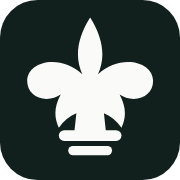
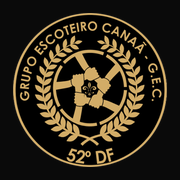
Adota o brasao do grupo e a paleta preto e dourado
- Brasao vira o icone do app (inclusive maskable), o favicon e a marca
  no cabecalho e na tela de entrada
- Paleta do app passa a preto #0A0A0A e dourado #D2AC67, tirados do
  proprio brasao; acoes principais ficam douradas
- Cores dos ramos permanecem como estao, porque sao informacao: elas
  dizem de qual ramo e cada pessoa

Claude-Session: https://claude.ai/code/session_01LQGehYTGPXxtFG2JUB2PWf

diff --git a/src/pages/Chamada.tsx b/src/pages/Chamada.tsx
@@ -200,7 +200,7 @@ export function Chamada() {
         <>
           <div className="flex items-center justify-between px-4 pt-5 pb-2">
             <p className="text-[13px] text-muted">Toque na linha para alternar presente, falta e justificada.</p>
-            <button type="button" onClick={todosPresentes} className="shrink-0 pl-3 text-[13px] font-semibold text-escoteiro underline">
+            <button type="button" onClick={todosPresentes} className="shrink-0 pl-3 text-[13px] font-semibold text-ouro-escuro underline">
               Todos presentes
             </button>
           </div>
@@ -217,7 +217,7 @@ export function Chamada() {
 
       {lista.length > 0 ? (
         <div className="fixed inset-x-0 bottom-[calc(64px+env(safe-area-inset-bottom))] z-10 border-t border-line bg-card/95 px-4 py-3 backdrop-blur">
-          {aviso ? <p className="pb-2 text-[13px] font-medium text-escoteiro" role="status">{aviso}</p> : null}
+          {aviso ? <p className="pb-2 text-[13px] font-medium text-ouro-escuro" role="status">{aviso}</p> : null}
           <div className="flex items-center gap-3">
             <p className="font-display text-[15px] font-[600]">
               {contagem.presentes} <span className="font-sans text-[13px] font-normal text-muted">presentes · {contagem.marcados}/{lista.length} marcados</span>
@@ -226,7 +226,7 @@ export function Chamada() {
               type="button"
               onClick={() => void salvar()}
               disabled={salvando}
-              className="ml-auto flex items-center gap-2 rounded-full bg-ink px-5 py-2.5 text-[15px] font-semibold text-paper disabled:opacity-60"
+              className="ml-auto flex items-center gap-2 rounded-full bg-ouro px-5 py-2.5 text-[15px] font-semibold text-ink disabled:opacity-60"
             >
               <Icone nome="salvar" className="h-4.5 w-4.5" />
               {salvando ? 'Salvando' : 'Salvar chamada'}

diff --git a/src/components/Marca.tsx b/src/components/Marca.tsx
@@ -1,21 +1,26 @@
-/** Flor-de-lis do grupo, usada como marca e como ícone do app. */
-export function FlorDeLis({ className = '', titulo }: { className?: string; titulo?: string }) {
+const LOGO = `${import.meta.env.BASE_URL}logo.png`;
+
+/** Brasão do Grupo Escoteiro Canaã 52/DF. */
+export function Brasao({ tamanho = 28, titulo }: { tamanho?: number; titulo?: string }) {
   return (
-    <svg viewBox="0 0 48 48" className={className} role={titulo ? 'img' : 'presentation'} aria-label={titulo} fill="currentColor">
-      <path d="M24 2c-2.6 4.1-3.9 8.1-3.9 11.8 0 2.2.5 4.3 1.4 6.3-3-2.6-6.2-3.9-9.6-3.9-4.6 0-8 2.5-8 6.1 0 3.3 2.6 5.7 6.2 5.7 1.7 0 3.2-.5 4.5-1.4-1.1 2-1.7 4-1.7 6 0 1.6.4 3.1 1.1 4.6 1.5-2.2 3.4-3.7 5.6-4.6l-.9 8.3h10.6l-.9-8.3c2.2.9 4.1 2.4 5.6 4.6.7-1.5 1.1-3 1.1-4.6 0-2-.6-4-1.7-6 1.3.9 2.8 1.4 4.5 1.4 3.6 0 6.2-2.4 6.2-5.7 0-3.6-3.4-6.1-8-6.1-3.4 0-6.6 1.3-9.6 3.9.9-2 1.4-4.1 1.4-6.3C27.9 10.1 26.6 6.1 24 2z" />
-      <rect x="14" y="38" width="20" height="3.4" rx="1.7" />
-      <rect x="17" y="43" width="14" height="3" rx="1.5" />
-    </svg>
+    <img
+      src={LOGO}
+      alt={titulo ?? ''}
+      width={tamanho}
+      height={tamanho}
+      style={{ width: tamanho, height: tamanho }}
+      className="shrink-0 object-contain"
+    />
   );
 }
 
 export function Marca() {
   return (
     <span className="flex items-center gap-2.5">
-      <FlorDeLis className="h-7 w-7 text-paper" titulo="Grupo Escoteiro Canaã 52" />
+      <Brasao tamanho={34} titulo="Grupo Escoteiro Canaã 52" />
       <span className="font-display text-[15px] leading-none font-[600] tracking-tight text-paper">
         Canaã 52
-        <span className="ml-1.5 font-sans text-[11px] font-medium text-paper/55">DF</span>
+        <span className="ml-1.5 font-sans text-[11px] font-medium text-ouro">DF</span>
       </span>
     </span>
   );

diff --git a/src/pages/Ficha.tsx b/src/pages/Ficha.tsx
@@ -191,13 +191,13 @@ export function Ficha() {
               type="button"
               onClick={() => void salvar()}
               disabled={salvando}
-              className="ml-auto rounded-full bg-ink px-5 py-2.5 text-[15px] font-semibold text-paper disabled:opacity-60"
+              className="ml-auto rounded-full bg-ouro px-5 py-2.5 text-[15px] font-semibold text-ink disabled:opacity-60"
             >
               {salvando ? 'Salvando' : 'Salvar ficha'}
             </button>
           </div>
         ) : (
-          <button type="button" onClick={() => setEditando(true)} className="w-full rounded-full bg-ink py-2.5 text-[15px] font-semibold text-paper">
+          <button type="button" onClick={() => setEditando(true)} className="w-full rounded-full bg-ouro py-2.5 text-[15px] font-semibold text-ink">
             Editar ficha
           </button>
         )}
@@ -221,7 +221,7 @@ function Par({ rotulo, valor, escuro, destaque, link }: { rotulo: string; valor?
   return (
     <div className="flex items-baseline gap-3">
       <dt className={`w-[46%] shrink-0 text-[12.5px] ${escuro ? 'text-paper/55' : 'text-muted'}`}>{rotulo}</dt>
-      <dd className={`flex-1 ${vazio ? (escuro ? 'text-paper/40' : 'text-muted') : ''} ${destaque ? 'font-semibold text-lobinho' : ''}`}>
+      <dd className={`flex-1 ${vazio ? (escuro ? 'text-paper/40' : 'text-muted') : ''} ${destaque ? 'font-semibold text-ouro' : ''}`}>
         {link && !vazio ? <a href={link} className="underline">{conteudo}</a> : conteudo}
       </dd>
     </div>

diff --git a/src/pages/Login.tsx b/src/pages/Login.tsx
@@ -1,6 +1,6 @@
 import { useEffect, useRef } from 'react';
 import { useAuth } from '../lib/auth';
-import { FlorDeLis } from '../components/Marca';
+import { Brasao } from '../components/Marca';
 
 export function Login() {
   const { montarBotao, erro, carregando } = useAuth();
@@ -13,7 +13,7 @@ export function Login() {
   return (
     <main className="grid min-h-dvh place-items-center bg-ink px-6 py-12 text-paper">
       <div className="w-full max-w-sm">
-        <FlorDeLis className="h-16 w-16 text-paper/90" titulo="" />
+        <Brasao tamanho={116} />
         <h1 className="mt-7 font-display text-[2.6rem] leading-[1.05] font-[800] tracking-[-0.02em]">
           Grupo Escoteiro
           <br />
@@ -26,7 +26,7 @@ export function Login() {
         <div className="mt-9 min-h-[44px]" ref={caixa} />
         {carregando ? <p className="mt-4 text-sm text-paper/60">Verificando seu acesso…</p> : null}
         {erro ? (
-          <p className="mt-5 border-l-4 border-lobinho bg-paper/10 px-3.5 py-3 text-sm leading-relaxed" role="alert">
+          <p className="mt-5 border-l-4 border-ouro bg-paper/10 px-3.5 py-3 text-sm leading-relaxed" role="alert">
             {erro}
           </p>
         ) : null}

diff --git a/src/pages/Conta.tsx b/src/pages/Conta.tsx
@@ -53,7 +53,7 @@ export function Conta() {
         <p className="mt-1.5 text-[14px] text-muted">
           {ativos} integrantes ativos de {integrantes.length} fichas.
         </p>
-        <button type="button" onClick={() => void recarregar()} className="mt-3 text-[14px] font-semibold text-escoteiro underline">
+        <button type="button" onClick={() => void recarregar()} className="mt-3 text-[14px] font-semibold text-ouro-escuro underline">
           Recarregar da planilha
         </button>
       </section>
@@ -69,7 +69,7 @@ export function Conta() {
             type="button"
             onClick={() => void rodar()}
             disabled={rodando}
-            className="mt-3 rounded-full bg-ink px-5 py-2.5 text-[14px] font-semibold text-paper disabled:opacity-60"
+            className="mt-3 rounded-full bg-ouro px-5 py-2.5 text-[14px] font-semibold text-ink disabled:opacity-60"
           >
             {rodando ? 'Conferindo' : 'Conferir agora'}
           </button>

diff --git a/src/pages/Integrantes.tsx b/src/pages/Integrantes.tsx
@@ -31,7 +31,7 @@ export function Integrantes() {
       <div className="sticky top-[52px] z-10 border-b border-line bg-card px-4 py-4">
         <div className="flex items-baseline justify-between gap-3">
           <h1 className="font-display text-xl font-[600] tracking-tight">Integrantes</h1>
-          <Link to="/integrantes/novo" className="rounded-full bg-ink px-4 py-2 text-[14px] font-semibold text-paper">
+          <Link to="/integrantes/novo" className="rounded-full bg-ouro px-4 py-2 text-[14px] font-semibold text-ink">
             Cadastrar
           </Link>
         </div>
@@ -47,7 +47,7 @@ export function Integrantes() {
         </label>
 
         <div className="-mx-4 mt-3 flex gap-2 overflow-x-auto px-4 pb-1">
-          <Chip ativo={!filtro} cor="var(--color-ink)" onClick={() => setFiltro('')}>
+          <Chip ativo={!filtro} cor="var(--color-ouro-escuro)" onClick={() => setFiltro('')}>
             Todos
           </Chip>
           {ramos.map((nome) => (

diff --git a/src/components/Casca.tsx b/src/components/Casca.tsx
@@ -11,7 +11,7 @@ const ABAS = [
 export function Casca() {
   return (
     <div className="min-h-dvh bg-paper pb-[calc(64px+env(safe-area-inset-bottom))]">
-      <header className="sticky top-0 z-20 bg-ink px-4 py-3 pt-[calc(0.75rem+env(safe-area-inset-top))]">
+      <header className="sticky top-0 z-20 border-b-2 border-ouro bg-ink px-4 py-3 pt-[calc(0.75rem+env(safe-area-inset-top))]">
         <Marca />
       </header>
 
@@ -28,8 +28,8 @@ export function Casca() {
             end={aba.para === '/'}
             className={({ isActive }) =>
               [
-                'flex flex-col items-center gap-1 py-2.5 text-[11px] font-medium',
-                isActive ? 'text-ink' : 'text-muted',
+                'flex flex-col items-center gap-1 border-t-2 py-2.5 text-[11px] font-medium',
+                isActive ? 'border-ouro text-ink' : 'border-transparent text-muted',
               ].join(' ')
             }
           >

diff --git a/index.html b/index.html
@@ -3,10 +3,11 @@
   <head>
     <meta charset="UTF-8" />
     <meta name="viewport" content="width=device-width, initial-scale=1, viewport-fit=cover" />
-    <meta name="theme-color" content="#11201C" />
+    <meta name="theme-color" content="#0A0A0A" />
     <meta name="description" content="Chamada e fichas dos integrantes do Grupo Escoteiro Canaã 52/DF." />
     <title>SGE Canaã 52</title>
-    <link rel="icon" href="icone.svg" type="image/svg+xml" />
+    <link rel="icon" href="favicon-32.png" type="image/png" sizes="32x32" />
+    <link rel="icon" href="icone-192.png" type="image/png" sizes="192x192" />
     <link rel="manifest" href="manifest.webmanifest" />
     <link rel="apple-touch-icon" href="icone-180.png" />
     <link rel="preconnect" href="https://fonts.googleapis.com" />

diff --git a/src/index.css b/src/index.css
@@ -4,12 +4,15 @@
   --font-sans: "Archivo", ui-sans-serif, system-ui, sans-serif;
   --font-display: "Bricolage Grotesque", "Archivo", sans-serif;
 
-  --color-ink: #11201c;
-  --color-ink-soft: #2c3a35;
-  --color-paper: #fafaf8;
+  --color-ink: #0a0a0a;
+  --color-ink-soft: #242420;
+  --color-paper: #faf8f4;
   --color-card: #ffffff;
-  --color-line: #dbdcd4;
-  --color-muted: #5c6660;
+  --color-line: #e0dad0;
+  --color-muted: #60594f;
+
+  --color-ouro: #d2ac67;
+  --color-ouro-escuro: #8c6a2c;
 
   --color-lobinho: #e8a00c;
   --color-escoteiro: #0f7a3d;
